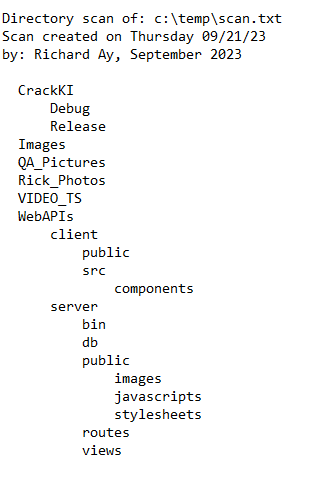
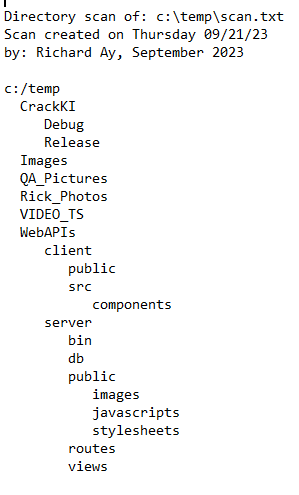
Updated output image and 'readme.md'.

Changed region(s): [[0.0, 0.1461, 0.6321, 0.9645], [0.0, 0.0, 0.9632, 0.1461]]

diff --git a/directory-scan.py b/directory-scan.py
@@ -9,7 +9,7 @@ import datetime           # Used to time-stamp the output file
 
 ###################################################################################################
 # Function to generate the output file title block.
-def file_title( o_file ):
+def file_title( o_file, path ):
     title = '\n' + 'Directory scan of: ' + str( out_path ) + '\n'
     o_file.write( title )
     date = datetime.datetime.now()
@@ -17,6 +17,7 @@ def file_title( o_file ):
     o_file.write( title )
     title = 'by: Richard Ay, September 2023' + '\n\n'
     o_file.write( title )
+    o_file.write( path+'\n' )
 
 ###################################################################################################
 # Main
@@ -40,7 +41,7 @@ with out_path.open( mode='w', encoding='utf-8' ) as o_file:
 
     # Setup the file title.  See https://www.w3schools.com/python/python_datetime.asp
     # for details on date/time formats.
-    file_title( o_file )
+    file_title( o_file, path )
 
     # Recursively scan all of the directories below the specified path.
     dir_list.scan_directory( path, num_blanks, file_IO, o_file )

diff --git a/dir_list.py b/dir_list.py
@@ -34,7 +34,7 @@ def scan_directory( path, num_blanks, file_IO, o_file ):
                     print( output_string )
 
                 sub_path = path + '/' + entry.name                           # Build the path to the subdirectory
-                scan_directory( sub_path, num_blanks+4, file_IO, o_file )    # Increase the indent level for this subdirectory
+                scan_directory( sub_path, num_blanks+3, file_IO, o_file )    # Increase the indent level for this subdirectory
 
 
 

diff --git a/README.md b/README.md
@@ -28,9 +28,9 @@ This utility can be invoked in several ways:
 
 The program prompts for two data items:
 1) The name of the output (text) file.
-2) 
+2) The full pathname of the directory to scan.
 
-The output file (specified by the user) is written to the target directory that is scanned.
+Once this data is entered, the scan commences and the output file is generated. The output file (specified by the user) is written to the target directory that is scanned.
 
 ## References
 1. Python for You and Me, Kushal Das, Feb 17, 2021  
@@ -42,6 +42,6 @@ The output file (specified by the user) is written to the target directory that 
 **directory-scan.py** - the main program (invoke this file).  
 
 ## Sample Output
-The image below shows a sample output:
+The image above shows a sample output:
 ![Sample Scan](https://github.com/CaptainRich/dir_list/blob/main/scan-output.png)
 
